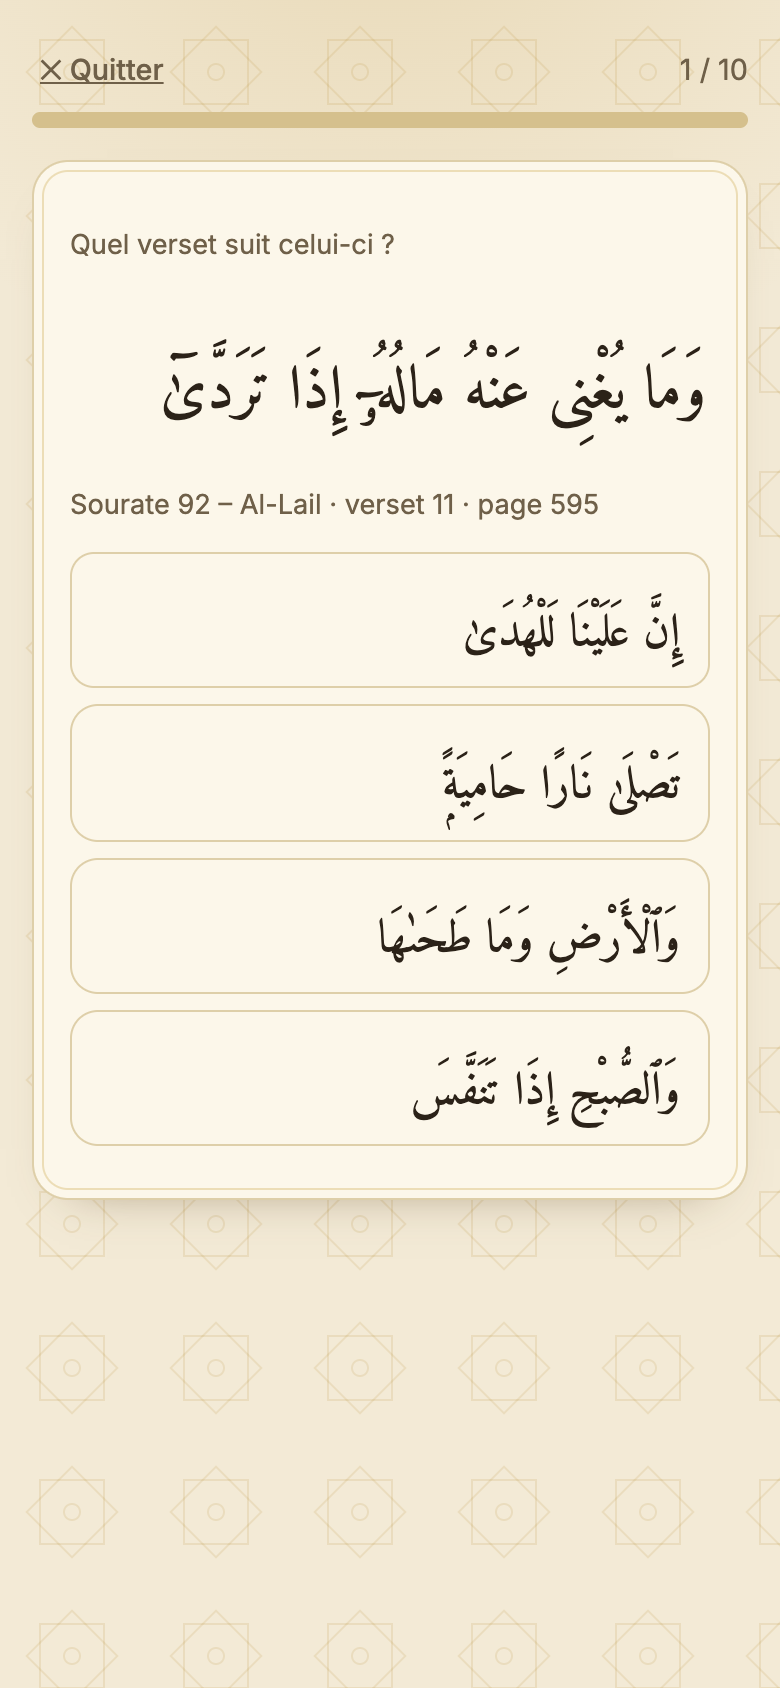
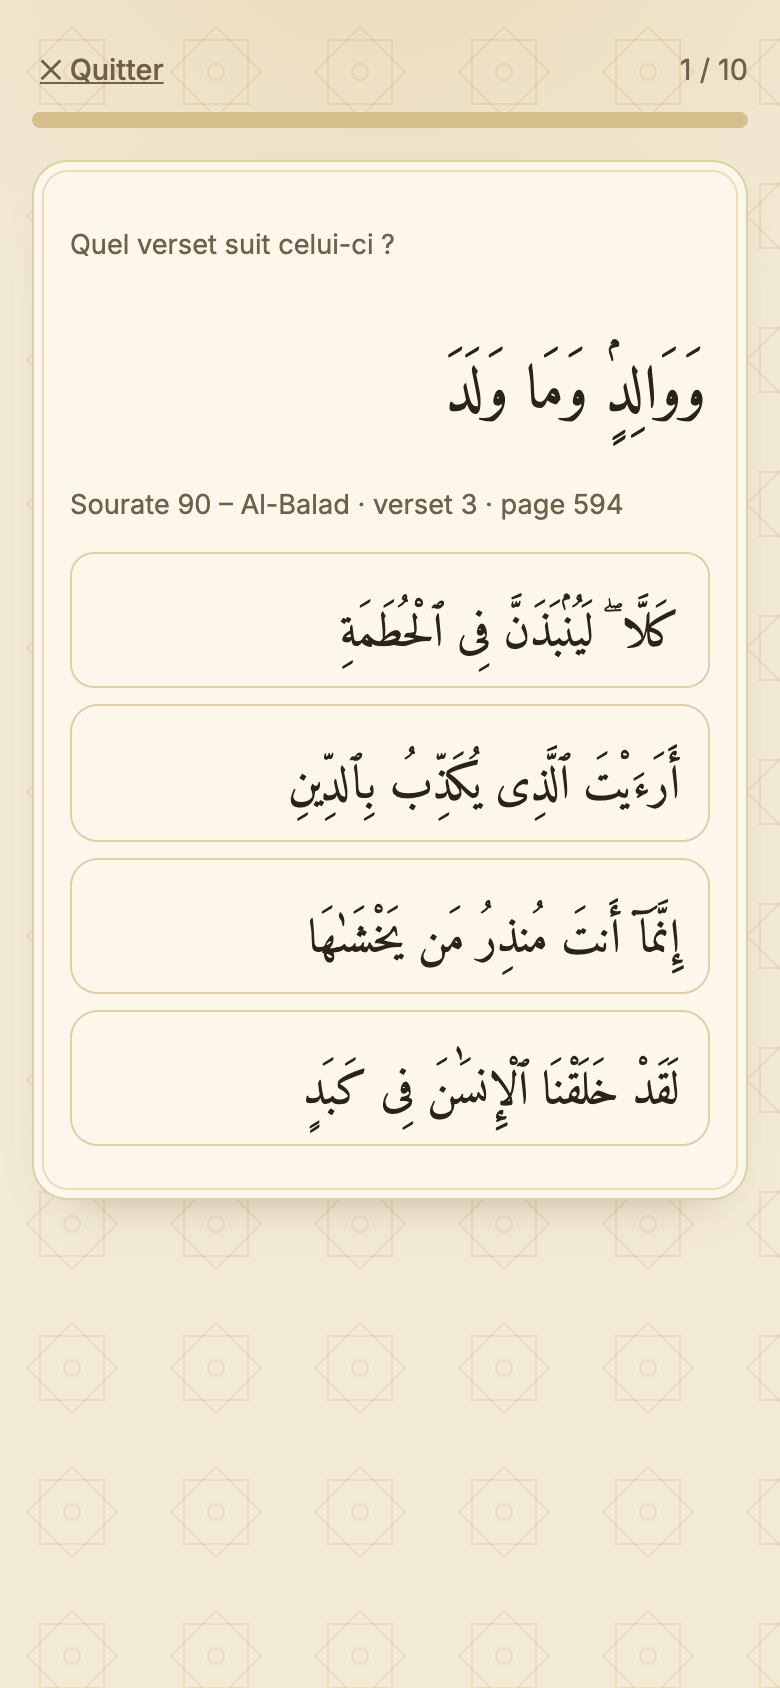
iPad : écrans de lancement en portrait et paysage (iPad Air 11 et 13 pouces, Pro, mini…) ; rotation autorisée

diff --git a/index.html b/index.html
@@ -7,7 +7,7 @@
 <meta name="theme-color" content="#0f5d46">
 <link rel="icon" href="icon.svg">
 <link rel="apple-touch-icon" href="icons/apple-touch-icon.png">
-<!-- écrans de lancement iPhone (générés par tools/build_store_assets.mjs) -->
+<!-- splash:begin — écrans de lancement iPhone et iPad (générés par tools/build_store_assets.mjs, ne pas modifier à la main) -->
 <link rel="apple-touch-startup-image" media="(device-width: 440px) and (device-height: 956px) and (-webkit-device-pixel-ratio: 3) and (orientation: portrait)" href="icons/splash/splash-1320x2868.jpg">
 <link rel="apple-touch-startup-image" media="(device-width: 430px) and (device-height: 932px) and (-webkit-device-pixel-ratio: 3) and (orientation: portrait)" href="icons/splash/splash-1290x2796.jpg">
 <link rel="apple-touch-startup-image" media="(device-width: 402px) and (device-height: 874px) and (-webkit-device-pixel-ratio: 3) and (orientation: portrait)" href="icons/splash/splash-1206x2622.jpg">
@@ -20,6 +20,25 @@
 <link rel="apple-touch-startup-image" media="(device-width: 414px) and (device-height: 736px) and (-webkit-device-pixel-ratio: 3) and (orientation: portrait)" href="icons/splash/splash-1242x2208.jpg">
 <link rel="apple-touch-startup-image" media="(device-width: 375px) and (device-height: 667px) and (-webkit-device-pixel-ratio: 2) and (orientation: portrait)" href="icons/splash/splash-750x1334.jpg">
 <link rel="apple-touch-startup-image" media="(device-width: 320px) and (device-height: 568px) and (-webkit-device-pixel-ratio: 2) and (orientation: portrait)" href="icons/splash/splash-640x1136.jpg">
+<link rel="apple-touch-startup-image" media="(device-width: 1032px) and (device-height: 1376px) and (-webkit-device-pixel-ratio: 2) and (orientation: portrait)" href="icons/splash/splash-2064x2752.jpg">
+<link rel="apple-touch-startup-image" media="(device-width: 1032px) and (device-height: 1376px) and (-webkit-device-pixel-ratio: 2) and (orientation: landscape)" href="icons/splash/splash-2752x2064.jpg">
+<link rel="apple-touch-startup-image" media="(device-width: 1024px) and (device-height: 1366px) and (-webkit-device-pixel-ratio: 2) and (orientation: portrait)" href="icons/splash/splash-2048x2732.jpg">
+<link rel="apple-touch-startup-image" media="(device-width: 1024px) and (device-height: 1366px) and (-webkit-device-pixel-ratio: 2) and (orientation: landscape)" href="icons/splash/splash-2732x2048.jpg">
+<link rel="apple-touch-startup-image" media="(device-width: 834px) and (device-height: 1210px) and (-webkit-device-pixel-ratio: 2) and (orientation: portrait)" href="icons/splash/splash-1668x2420.jpg">
+<link rel="apple-touch-startup-image" media="(device-width: 834px) and (device-height: 1210px) and (-webkit-device-pixel-ratio: 2) and (orientation: landscape)" href="icons/splash/splash-2420x1668.jpg">
+<link rel="apple-touch-startup-image" media="(device-width: 834px) and (device-height: 1194px) and (-webkit-device-pixel-ratio: 2) and (orientation: portrait)" href="icons/splash/splash-1668x2388.jpg">
+<link rel="apple-touch-startup-image" media="(device-width: 834px) and (device-height: 1194px) and (-webkit-device-pixel-ratio: 2) and (orientation: landscape)" href="icons/splash/splash-2388x1668.jpg">
+<link rel="apple-touch-startup-image" media="(device-width: 834px) and (device-height: 1112px) and (-webkit-device-pixel-ratio: 2) and (orientation: portrait)" href="icons/splash/splash-1668x2224.jpg">
+<link rel="apple-touch-startup-image" media="(device-width: 834px) and (device-height: 1112px) and (-webkit-device-pixel-ratio: 2) and (orientation: landscape)" href="icons/splash/splash-2224x1668.jpg">
+<link rel="apple-touch-startup-image" media="(device-width: 820px) and (device-height: 1180px) and (-webkit-device-pixel-ratio: 2) and (orientation: portrait)" href="icons/splash/splash-1640x2360.jpg">
+<link rel="apple-touch-startup-image" media="(device-width: 820px) and (device-height: 1180px) and (-webkit-device-pixel-ratio: 2) and (orientation: landscape)" href="icons/splash/splash-2360x1640.jpg">
+<link rel="apple-touch-startup-image" media="(device-width: 810px) and (device-height: 1080px) and (-webkit-device-pixel-ratio: 2) and (orientation: portrait)" href="icons/splash/splash-1620x2160.jpg">
+<link rel="apple-touch-startup-image" media="(device-width: 810px) and (device-height: 1080px) and (-webkit-device-pixel-ratio: 2) and (orientation: landscape)" href="icons/splash/splash-2160x1620.jpg">
+<link rel="apple-touch-startup-image" media="(device-width: 768px) and (device-height: 1024px) and (-webkit-device-pixel-ratio: 2) and (orientation: portrait)" href="icons/splash/splash-1536x2048.jpg">
+<link rel="apple-touch-startup-image" media="(device-width: 768px) and (device-height: 1024px) and (-webkit-device-pixel-ratio: 2) and (orientation: landscape)" href="icons/splash/splash-2048x1536.jpg">
+<link rel="apple-touch-startup-image" media="(device-width: 744px) and (device-height: 1133px) and (-webkit-device-pixel-ratio: 2) and (orientation: portrait)" href="icons/splash/splash-1488x2266.jpg">
+<link rel="apple-touch-startup-image" media="(device-width: 744px) and (device-height: 1133px) and (-webkit-device-pixel-ratio: 2) and (orientation: landscape)" href="icons/splash/splash-2266x1488.jpg">
+<!-- splash:end -->
 <meta name="apple-mobile-web-app-capable" content="yes">
 <meta name="mobile-web-app-capable" content="yes">
 <meta name="apple-mobile-web-app-title" content="Tathbīt">
@@ -2743,7 +2762,7 @@ function results(){
 }
 
 /* ---------- compte (Supabase) : inscription, connexion, synchronisation, espace admin ---------- */
-const APP_VERSION = '23 oct. 2026 · v63';
+const APP_VERSION = '23 oct. 2026 · v64';
 async function forceUpdate(el){
   if (!navigator.onLine) return alert(tr('Pas de connexion : connecte-toi à internet pour mettre à jour.'));
   el.disabled = true; el.textContent = tr('Mise à jour…');
